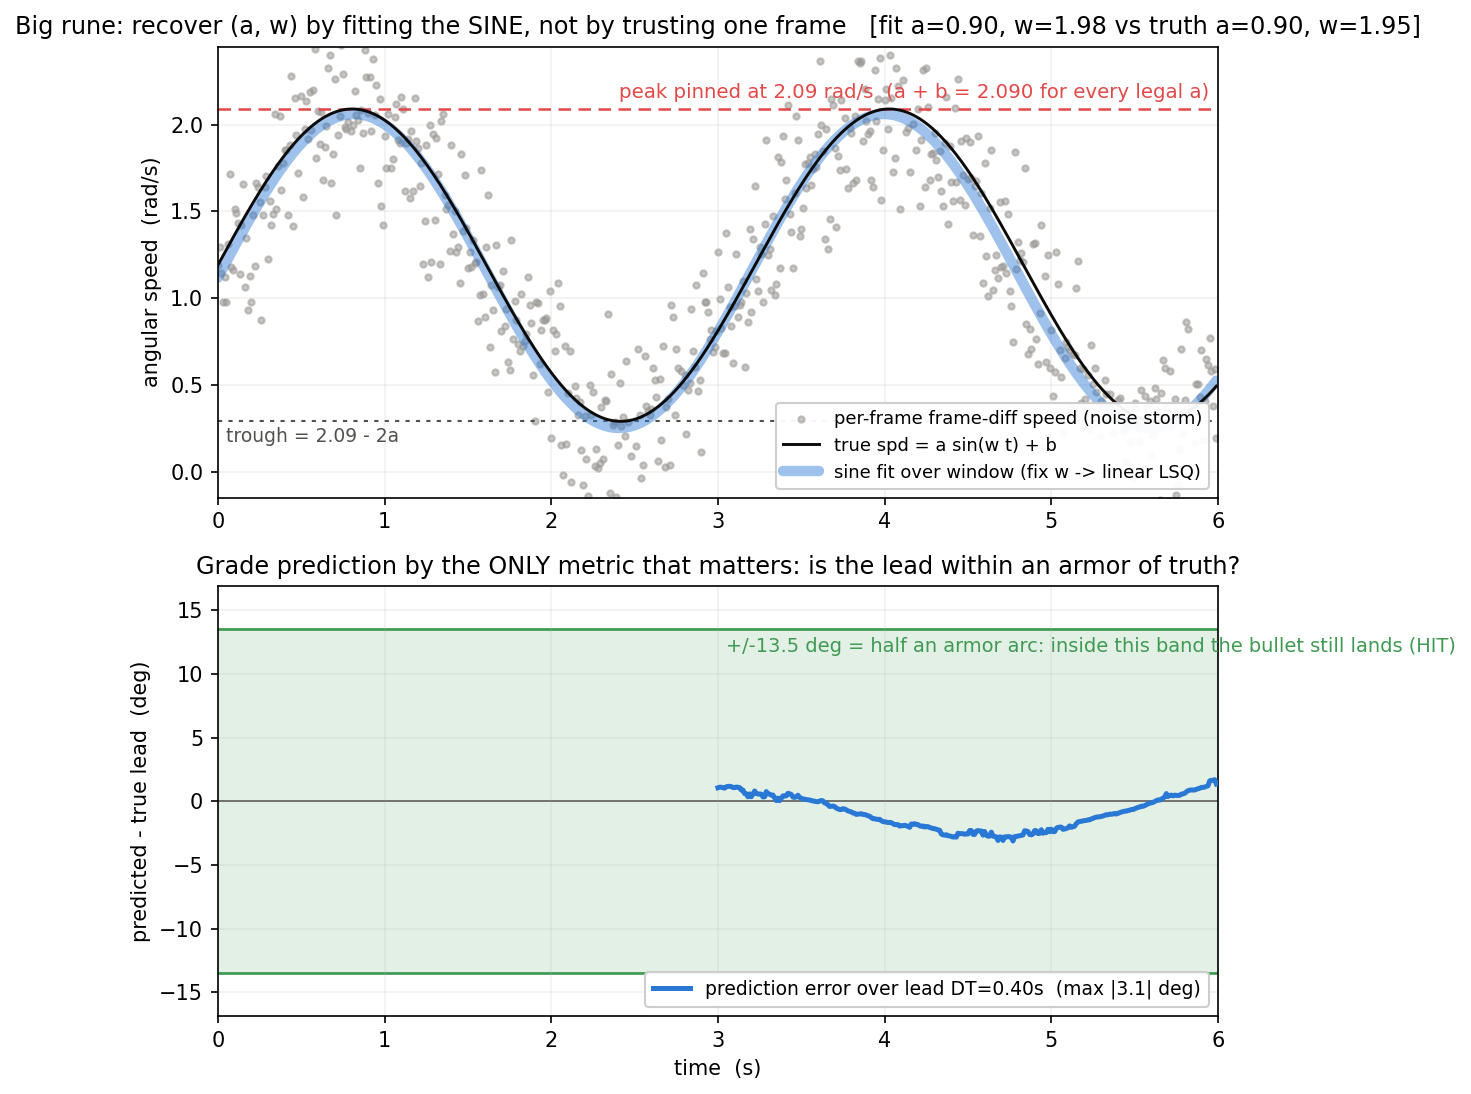
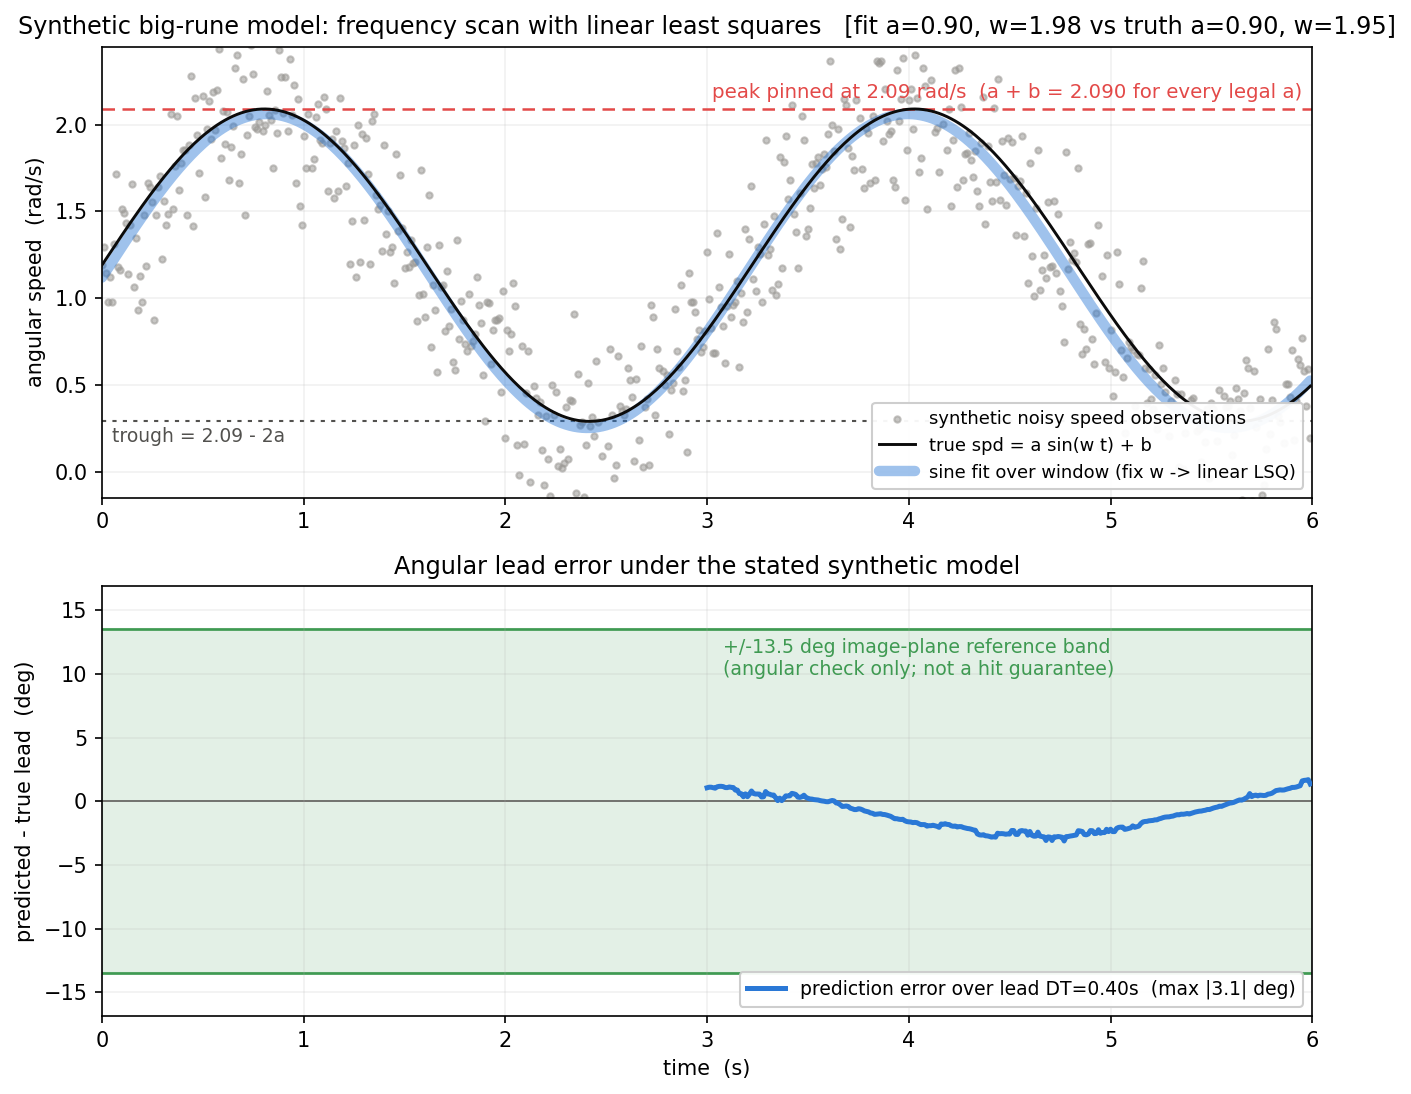
style(application): 完善能量机关检测与预测边界

diff --git a/examples/application/rune_predict.py b/examples/application/rune_predict.py
@@ -1,10 +1,7 @@
-# Big-rune rotation prediction and how you grade it, for the "rune detection" chapter.
-# Top: the rune's angular speed spd = a*sin(w t) + b (b = 2.09 - a). Per-frame frame-diff
-#   speed is a noise storm (gray dots); a sine FIT over a long window (fix w, linear LSQ)
-#   recovers the parameters. Note the peak is pinned at 2.09 rad/s for every legal (a, w).
-# Bottom: grade the predictor by the ONLY thing that matters -- does the predicted lead angle
-#   land the bullet on the armor after the flight time. Error stays inside +/-5 deg, well under
-#   the +/-13.5 deg "armor half-width" threshold => hit.
+# Synthetic big-rune rotation example for the application chapter.
+# The upper panel fits a sine model to noisy angular-speed samples. The lower
+# panel compares angular lead error with an illustrative image-plane angle band;
+# it does not model the complete projectile and control chain.
 # Output: chapters/4.Application/images/app-rune-predict.png
 import numpy as np
 import matplotlib.pyplot as plt
@@ -25,10 +22,10 @@ fps = 100.0
 dt = 1.0 / fps
 T = 6.0
 ts = np.arange(0.0, T, dt)
-sp_noisy = spd(ts) + rng.normal(0.0, 0.30, ts.size)        # post-low-pass speed noise level
+sp_noisy = spd(ts) + rng.normal(0.0, 0.30, ts.size)        # synthetic speed-observation noise
 
-DT = 0.40          # total lead: bullet flight (7 m / ~20 m/s) + pipeline latency
-FIT_START = 3.0    # need ~one period of data before the fit is trustworthy
+DT = 0.40          # illustrative total lead time
+FIT_START = 3.0    # plotting choice, not a general convergence threshold
 
 
 def fit_sine(tt, yy):
@@ -56,13 +53,13 @@ for t in ts[ts >= FIT_START]:
     err_deg.append(np.degrees(lead_pred - lead_true))
 err_t, err_deg = np.array(err_t), np.array(err_deg)
 emax = np.abs(err_deg).max()
-thr = np.degrees(0.5 * 300 / 636.42)   # half the armor arc, as a center angle ~ 13.5 deg
+thr = np.degrees(0.5 * 300 / 636.42)   # small-angle reference: half image-plane chord / radius
 
 fig, (axA, axB) = plt.subplots(2, 1, figsize=(9.0, 7.4), gridspec_kw=dict(height_ratios=[1.05, 1.0]))
 
 # ---------- Panel A: speed profile ----------
 axA.scatter(ts, sp_noisy, s=9, color=GRAY, alpha=0.55, zorder=1,
-            label="per-frame frame-diff speed (noise storm)")
+            label="synthetic noisy speed observations")
 axA.plot(ts, spd(ts), color=INK, lw=1.4, zorder=3, label="true spd = a sin(w t) + b")
 axA.plot(ts, A_f * np.sin(w_f * ts + phi_f) + C_f, color=BLUE, lw=5.0, alpha=0.45, zorder=2,
          solid_capstyle="round", label="sine fit over window (fix w -> linear LSQ)")
@@ -73,7 +70,7 @@ axA.axhline(b - a, color=MUTED, lw=1.0, ls=(0, (2, 3)), zorder=1)
 axA.text(0.05, b - a - 0.03, "trough = 2.09 - 2a", color=MUTED, fontsize=9, ha="left", va="top")
 axA.set_ylabel("angular speed  (rad/s)")
 axA.set_xlim(0, T); axA.set_ylim(-0.15, 2.45)
-axA.set_title(f"Big rune: recover (a, w) by fitting the SINE, not by trusting one frame   "
+axA.set_title(f"Synthetic big-rune model: frequency scan with linear least squares   "
               f"[fit a={A_f:.2f}, w={w_f:.2f} vs truth a={a:.2f}, w={w:.2f}]", fontsize=11.5)
 axA.legend(loc="lower right", fontsize=8.6, frameon=True, framealpha=0.95)
 axA.grid(alpha=0.18)
@@ -82,20 +79,22 @@ axA.grid(alpha=0.18)
 axB.axhspan(-thr, thr, color=GREEN, alpha=0.14, zorder=0)
 axB.axhline(thr, color=GREEN, lw=1.3, zorder=1)
 axB.axhline(-thr, color=GREEN, lw=1.3, zorder=1)
-axB.text(FIT_START + 0.05, thr - 0.6, f"+/-{thr:.1f} deg = half an armor arc: inside this band the bullet still lands (HIT)",
-         color=GREEN, fontsize=9.3, va="top")
+axB.text(FIT_START + 0.08, thr - 0.7,
+         f"+/-{thr:.1f} deg image-plane reference band\n"
+         "(angular check only; not a hit guarantee)",
+         color=GREEN, fontsize=9.1, va="top", ha="left")
 axB.axhline(0, color=MUTED, lw=0.8, zorder=1)
 axB.plot(err_t, err_deg, color=BLUE, lw=2.4, zorder=3,
          label=f"prediction error over lead DT={DT:.2f}s  (max |{emax:.1f}| deg)")
 axB.set_xlabel("time  (s)"); axB.set_ylabel("predicted - true lead  (deg)")
 axB.set_xlim(0, T); axB.set_ylim(-thr * 1.25, thr * 1.25)
-axB.set_title("Grade prediction by the ONLY metric that matters: is the lead within an armor of truth?",
+axB.set_title("Angular lead error under the stated synthetic model",
               fontsize=11.5)
 axB.legend(loc="lower right", fontsize=9.0, frameon=True, framealpha=0.95)
 axB.grid(alpha=0.18)
 
 fig.tight_layout()
-out = Path("chapters/4.Application/images/app-rune-predict.png")
+out = Path(__file__).resolve().parents[2] / "chapters/4.Application/images/app-rune-predict.png"
 out.parent.mkdir(parents=True, exist_ok=True)
 fig.savefig(out, dpi=150, bbox_inches="tight")
 print("wrote", out, " max_err_deg=%.2f thr=%.2f" % (emax, thr))

diff --git a/examples/application/rune_geometry.py b/examples/application/rune_geometry.py
@@ -1,7 +1,6 @@
-# Energy-rune anatomy & recognition geometry, for the "rune detection" application chapter.
-# One schematic: five blades at 72 deg spacing around the R mark, colour-coded by state
-# (target / shot / unlit), with the radius geometry and the "rotate a detection by 72 deg
-# about R to seed the other blades" trick that a pure-traditional pipeline leans on.
+# Energy-rune geometry for the application chapter.
+# The diagram shows five blades at 72 deg spacing, an example state assignment,
+# and position hypotheses obtained by rotation about the estimated R center.
 # Output: chapters/4.Application/images/app-rune-geometry.png
 import numpy as np
 import matplotlib.pyplot as plt
@@ -28,7 +27,7 @@ ARM_W, ARM_H = 0.42, 0.26   # striking-armor frame size (tangential x radial)
 angles_deg = [90 + i * 72 for i in range(5)]
 states = ["target", "shot", "unlit", "unlit", "shot"]
 state_color = {"target": RED, "shot": ORANGE, "unlit": GRAY}
-state_label = {"target": "target (to hit)", "shot": "activated (already hit)", "unlit": "unlit"}
+state_label = {"target": "target candidate", "shot": "activated", "unlit": "unlit"}
 
 def draw_blade(ax, ang_deg, color, lit):
     a = np.deg2rad(ang_deg)
@@ -57,8 +56,7 @@ def draw_blade(ax, ang_deg, color, lit):
 target_c = None
 for ang, st in zip(angles_deg, states):
     # side bars light up only AFTER a blade is hit -> only "shot" blades get them.
-    # This is exactly the cue the contour-hierarchy test counts on:
-    # activated = 3 child contours (two side bars + strip), to-hit = 1.
+    # This example assumes three child contours after activation and one before.
     cx, cy = draw_blade(ax, ang, state_color[st], lit=(st == "shot"))
     if st == "target":
         target_c = (cx, cy)
@@ -94,23 +92,23 @@ arr = FancyArrowPatch((ring * np.cos(np.deg2rad(20)), ring * np.sin(np.deg2rad(2
                       color=MUTED, lw=1.8)
 ax.add_patch(arr)
 ax.text(ring * np.cos(np.deg2rad(-8)) + 0.12, ring * np.sin(np.deg2rad(-8)),
-        "rotation\n(random each round, fixed within it;\nthe two sides see opposite\nhandedness -> measure it online)",
+        "image-plane rotation\n(sign depends on viewpoint and\nimage convention; estimate it\nfrom consecutive observations)",
         fontsize=9.5, color=MUTED, va="center")
 
 # ---- "seed the others" annotation on the target arc
-ax.annotate("detect one blade,\nrotate +/-72 deg about R\nto seed the rest",
+ax.annotate("from one detected blade,\nrotate +/-72 deg about R\nto propose the others",
             xy=(0.60 * np.cos(a0) - 0.10, 0.60 * np.sin(a0)),
             xytext=(-1.95, 1.02), fontsize=9.5, color=INK, ha="left", va="center",
             arrowprops=dict(arrowstyle="->", color=INK, lw=1.1))
 
 # ---- the cue the hierarchy test actually counts: side bars present or not
 a_t = np.deg2rad(angles_deg[0])          # target blade (red), points up
-ax.annotate("no side bars yet = to hit\n(1 child contour)",
+ax.annotate("example target state\n(1 child contour)",
             xy=(0.13, 0.72 * np.sin(a_t)), xytext=(0.62, 1.30),
             fontsize=9.5, color=RED, ha="left", va="center",
             arrowprops=dict(arrowstyle="->", color=RED, lw=1.1))
 a_s = np.deg2rad(angles_deg[4])          # an activated blade (orange), lower right
-ax.annotate("side bars lit = already hit\n(3 child contours)",
+ax.annotate("example activated state\n(3 child contours)",
             xy=(0.74 * np.cos(a_s), 0.74 * np.sin(a_s) - 0.16),
             xytext=(1.06, 0.98),
             fontsize=9.5, color=ORANGE, ha="left", va="center",
@@ -121,15 +119,15 @@ handles = [plt.Line2D([0], [0], color=state_color[s], lw=3.0, label=state_label[
            for s in ["target", "shot", "unlit"]]
 ax.legend(handles=handles, loc="lower right", fontsize=9.5, frameon=True, framealpha=0.95)
 
-ax.set_title("Energy-rune anatomy: five blades at 72 deg around the R mark.\n"
-             "Vision must pick the one 'to-hit' blade, then localize its armor center at radius r.",
+ax.set_title("Energy-rune geometry: five blades at 72 deg around the R mark\n"
+             "Estimate the target blade, center R, and image-plane radius r.",
              fontsize=12.5, pad=10)
 ax.set_xlim(-2.05, 2.1)
 ax.set_ylim(-1.7, 1.55)
 ax.axis("off")
 
 fig.tight_layout()
-out = Path("chapters/4.Application/images/app-rune-geometry.png")
+out = Path(__file__).resolve().parents[2] / "chapters/4.Application/images/app-rune-geometry.png"
 out.parent.mkdir(parents=True, exist_ok=True)
 fig.savefig(out, dpi=150, bbox_inches="tight")
 print("wrote", out)
